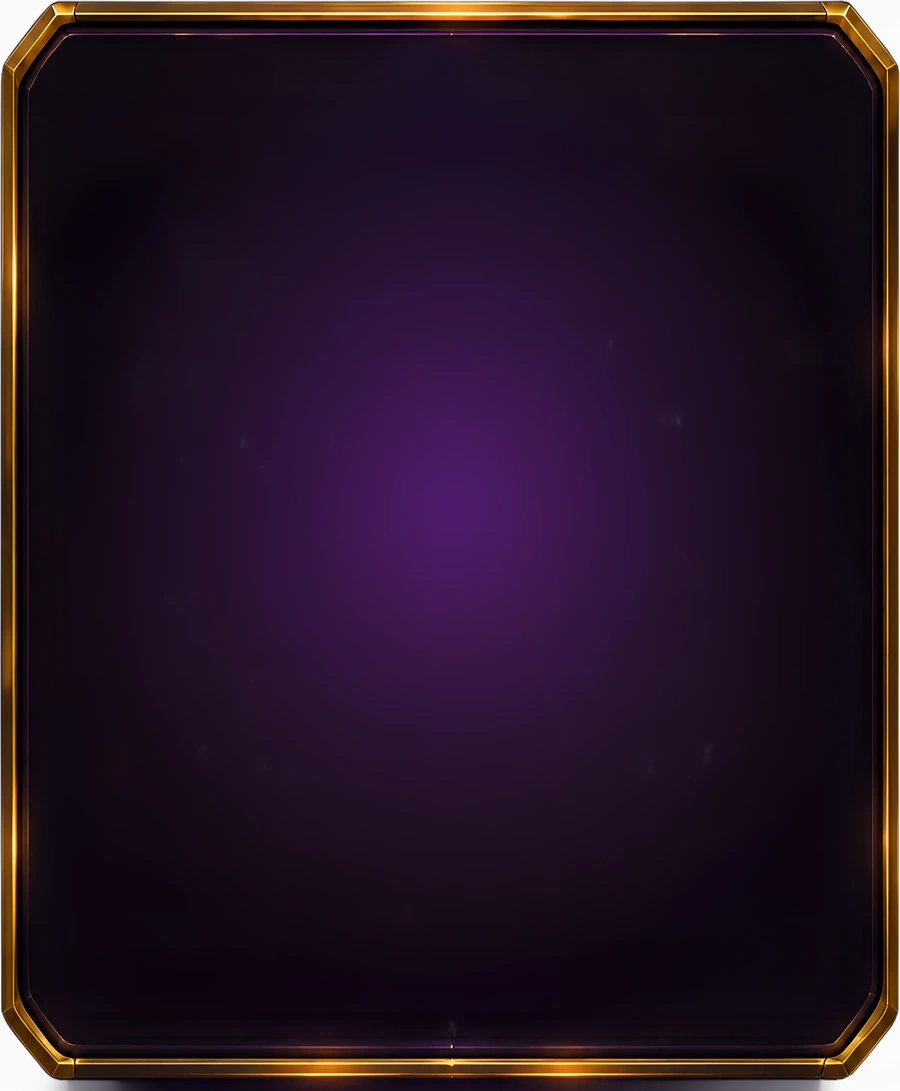
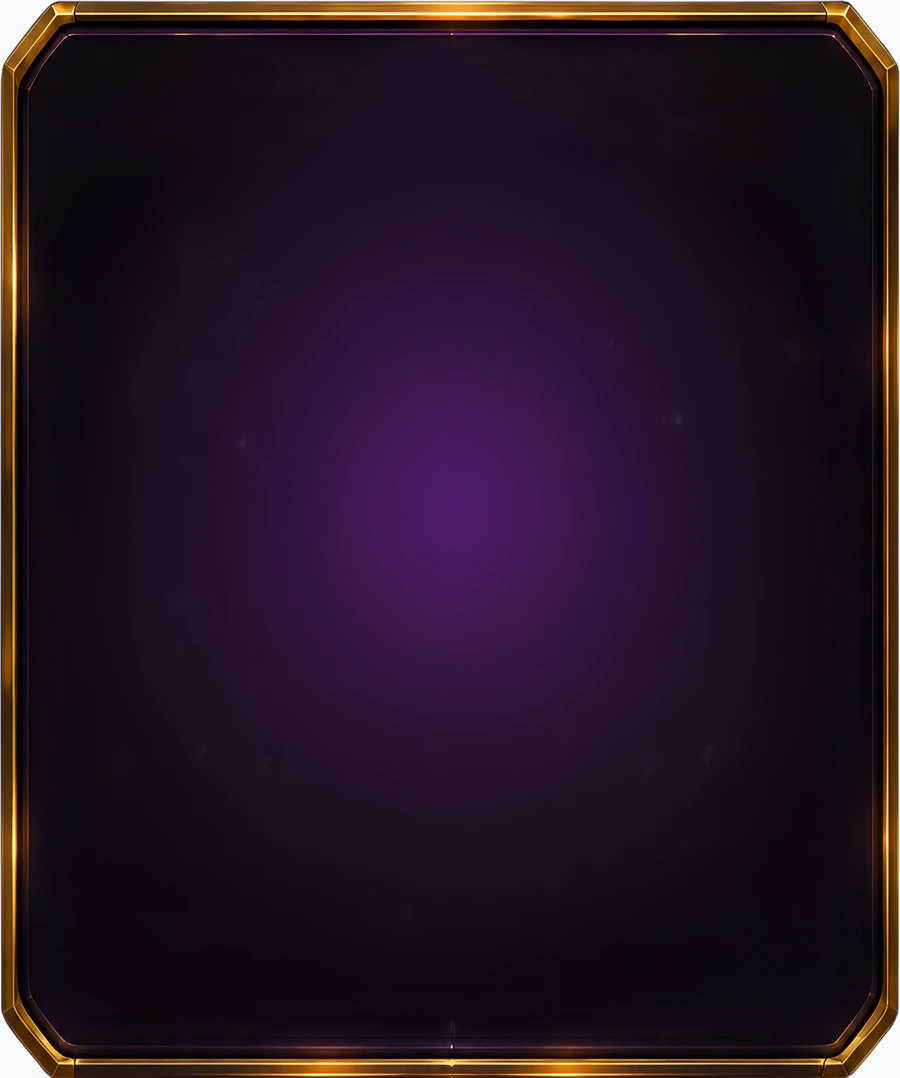
v2.67.1: Lettersoep bijgeschaafd
- Nieuwe ondersectie (hoger, dus de gevonden woorden hebben lucht).
- De zwarte slagschaduw onder de middensectie is eruit geknipt: van onderaf
  gezocht naar de laatste rij die nog goud bevat, alles daaronder was alleen
  schaduw (57 van de 4714 rijen). De letterlagen zijn mee ingekort, anders
  schuiven de letters ten opzichte van het bord.
- Een schaduw ONDER elke sectie, zodat ze op het decor zweven. Als tweede kopie
  van dezelfde art met brightness(0) en blur, niet als drop-shadow-filter: die
  rastert op iOS de doos van de laag mee en dan zie je zwarte hoekjes rond elke
  afschuining. Recht naar beneden, want het licht komt van boven.
- De gloed van een gekozen letter is korter (11 procent in plaats van 20, en
  minder blur). Hij waaierde verder dan de kier tussen twee vakjes, liep die vol
  en dan verdween de streep die het raster maakt.
- De vakjes van de gevonden woorden zijn nu ACHThoeken, met alle vier de hoeken
  afgesneden zoals de glasrijen. Twee afgeschuinde hoeken leest als een fout in
  plaats van als een vorm.
- VIND WOORDEN groter, en het decor een slag donkerder achter dit spel: de
  secties zijn zelf goud en licht, en op het volle decor concurreren die twee.

Changed region(s): [[0.0, 0.9184, 1.0, 1.0], [0.9333, 0.0306, 0.9956, 0.0612], [0.0, 0.0306, 0.0622, 0.0612]]

diff --git a/frontend/src/screens/_PreviewLettersoep.tsx b/frontend/src/screens/_PreviewLettersoep.tsx
@@ -14,6 +14,7 @@
 //  - het pad dat je legt, als lijn achter de letters;
 //  - de vakjes van de gevonden woorden, in de vorm van de glasrijen maar met
 //    een gouden lijn zoals op de mockup.
+import { useEffect } from "react";
 import { LogOut } from "lucide-react";
 import { Screen } from "../components/Layout";
 import { KADER_LIJN_LOOP, KADER_LIJN_ROOD, NeonKader } from "../components/ProfileHero";
@@ -21,27 +22,34 @@ import { VAK } from "./Arena";
 import { colors, font, withAlpha } from "../theme/tokens";
 
 // ---- de maten van de art ----------------------------------------------------
-const BORD_V = 0.8248;      // verhouding van de bordsectie
+const BORD_V = 0.8349;      // verhouding van de bordsectie
 const SCORE_V = 3.7805;     // van de scorebordsectie
-const ONDER_V = 4.4481;     // van de ondersectie
+const ONDER_V = 2.9589;     // van de ondersectie
 
 // De vier kolommen en rijen van het letterraster, als breuk van het bord.
 const KOL = [0.0561, 0.2803, 0.5051, 0.7297];
-const RIJ = [0.1616, 0.3547, 0.5431, 0.7361];
+const RIJ = [0.1636, 0.359, 0.5497, 0.7451];
 const VAK_B = 0.213;
-const VAK_H = 0.1769;
+const VAK_H = 0.1791;
 
 // De twee ruiten van het scorebord, links de tijd en rechts de punten.
 const SCORE_RUIT = { t: 0.2238, h: 0.6643, links: { l: 0.0407, b: 0.3213 }, rechts: { l: 0.637, b: 0.3213 } };
 // De ondersectie heeft twee banden met een streep ertussen: het woord dat je
 // legt boven, de woorden die je al hebt eronder.
-const ONDER_RUIT = { l: 0.0139, b: 0.9722, woord: { t: 0.1317, h: 0.4197 }, lijst: { t: 0.5638, h: 0.2798 } };
+const ONDER_RUIT = { l: 0.0148, b: 0.9704, woord: { t: 0.1315, h: 0.4192 }, lijst: { t: 0.5589, h: 0.2849 } };
 
 const pct = (f: number) => `${(f * 100).toFixed(3)}%`;
 
-// Hoeveel de gloed buiten een vakje uitwaaiert, als deel van dat vakje.
-const HALO = 0.2;
-const GLOED = withAlpha("#FFA524", 0.85);
+/** De vorm van de glasrijen: een achthoek, dus ALLE VIER de hoeken afgesneden.
+ *  Twee afgeschuinde hoeken leest als een fout in plaats van als een vorm. */
+const ACHT = (c: number) =>
+  `polygon(${c}px 0, calc(100% - ${c}px) 0, 100% ${c}px, 100% calc(100% - ${c}px), calc(100% - ${c}px) 100%, ${c}px 100%, 0 calc(100% - ${c}px), 0 ${c}px)`;
+
+// Hoeveel de gloed buiten een vakje uitwaaiert, als deel van dat vakje. Kort
+// houden: waaiert hij verder dan de kier tussen twee vakjes, dan loopt hij die
+// kier vol en verdwijnt de streep die het raster maakt.
+const HALO = 0.11;
+const GLOED = withAlpha("#FFA524", 0.7);
 
 // ---- de voorbeelddag --------------------------------------------------------
 const BORD = [
@@ -66,6 +74,22 @@ const GEVONDEN = [
 function Sectie({ art, verhouding, breedte = VAK, children }: { art: string; verhouding: number; breedte?: string; children?: React.ReactNode }) {
   return (
     <div style={{ position: "relative", width: breedte, height: `calc(${breedte} / ${verhouding})`, flexShrink: 0 }}>
+      {/* De schaduw waarop de sectie zweeft. Een TWEEDE kopie van dezelfde art,
+          helemaal zwart gemaakt en vervaagd, en niet `filter: drop-shadow`: die
+          rastert op iOS de doos van de laag mee en dan zie je zwarte hoekjes
+          rond elke afschuining. `brightness(0)` maakt elke pixel zwart en laat
+          het alfakanaal staan, dus de schaduw volgt de VORM. Recht naar beneden,
+          want het licht komt van boven. */}
+      <img
+        src={art}
+        alt=""
+        aria-hidden
+        style={{
+          position: "absolute", inset: 0, width: "100%", height: "100%", display: "block",
+          filter: "brightness(0) blur(11px)", opacity: 0.55, transform: "translateY(9px)",
+          pointerEvents: "none",
+        }}
+      />
       <img src={art} alt="" aria-hidden style={{ position: "absolute", inset: 0, width: "100%", height: "100%", display: "block" }} />
       {children}
     </div>
@@ -90,6 +114,13 @@ function Meter({ kop, waarde, breuk }: { kop: string; waarde: string; breuk: { l
 }
 
 export function PreviewLettersoep() {
+  // Het decor een slag donkerder: de secties van dit spel zijn zelf goud en
+  // licht, en op het volle decor concurreren die twee.
+  useEffect(() => {
+    document.body.classList.add("arena", "soepdonker");
+    return () => document.body.classList.remove("arena", "soepdonker");
+  }, []);
+
   const stand = GEVONDEN.reduce((t, g) => t + punten(g.n), 0);
   const woord = PAD.map(([r, k]) => BORD[r][k]).join("");
   const inPad = (r: number, k: number) => PAD.findIndex(([pr, pk]) => pr === r && pk === k);
@@ -119,8 +150,8 @@ export function PreviewLettersoep() {
               vrijhoudt. */}
           <span
             style={{
-              position: "absolute", left: 0, right: 0, top: pct(0.055),
-              textAlign: "center", fontFamily: font.wide, fontSize: 13, letterSpacing: 2.4,
+              position: "absolute", left: 0, right: 0, top: pct(0.048),
+              textAlign: "center", fontFamily: font.wide, fontSize: 17, letterSpacing: 3,
               color: "#FFD98A", textShadow: "0 0 10px rgba(255,180,50,.55)",
             }}
           >
@@ -167,8 +198,8 @@ export function PreviewLettersoep() {
                     left: pct(KOL[k] - VAK_B * HALO), top: pct(RIJ[r] - VAK_H * HALO),
                     width: pct(VAK_B * (1 + HALO * 2)), height: pct(VAK_H * (1 + HALO * 2)),
                     borderRadius: "28%",
-                    background: `radial-gradient(circle, ${GLOED} 0%, ${GLOED} 44%, ${withAlpha("#FFB43C", 0.5)} 56%, ${withAlpha("#FFB43C", 0.2)} 66%, transparent 74%)`,
-                    filter: "blur(9px)",
+                    background: `radial-gradient(circle, ${GLOED} 0%, ${GLOED} 46%, ${withAlpha("#FFB43C", 0.38)} 58%, ${withAlpha("#FFB43C", 0.14)} 68%, transparent 76%)`,
+                    filter: "blur(6px)",
                     opacity: aan ? 1 : 0,
                     transition: aan ? "opacity .1s linear" : "opacity .25s ease-out",
                     pointerEvents: "none",
@@ -191,7 +222,7 @@ export function PreviewLettersoep() {
                   aria-hidden
                   style={{
                     position: "absolute",
-                    left: pct(KOL[k] - 0.0015), top: pct(RIJ[r] + 0.0008),
+                    left: pct(KOL[k] - 0.0015), top: pct(RIJ[r] + 0.0015),
                     width: pct(VAK_B + 0.003), height: "auto",
                     display: "block", zIndex: 2,
                     opacity: aan ? 1 : 0,
@@ -277,14 +308,14 @@ export function PreviewLettersoep() {
                 key={g.woord}
                 style={{
                   display: "inline-flex", height: "84%", padding: 1,
-                  clipPath: "polygon(6px 0, 100% 0, 100% calc(100% - 6px), calc(100% - 6px) 100%, 0 100%, 0 6px)",
+                  clipPath: ACHT(6),
                   background: `linear-gradient(180deg, ${withAlpha("#FFD98A", 0.85)}, ${withAlpha("#B0710E", 0.7)})`,
                 }}
               >
                 <span
                   style={{
                     display: "inline-flex", alignItems: "center", gap: 5, paddingInline: 9,
-                    clipPath: "polygon(5px 0, 100% 0, 100% calc(100% - 5px), calc(100% - 5px) 100%, 0 100%, 0 5px)",
+                    clipPath: ACHT(5),
                     background: "linear-gradient(180deg, rgba(58,26,86,.97), rgba(32,13,52,.97))",
                     fontFamily: font.ui, fontSize: 11, fontWeight: 600, color: withAlpha("#FFE7A8", 0.92),
                   }}

diff --git a/frontend/src/index.css b/frontend/src/index.css
@@ -717,6 +717,14 @@ a:active .hex-aan {
   .wp-art::after { animation: none; opacity: 0; }
 }
 
+/* De arena-hal een slag donkerder voor de Lettersoep. De secties van dat spel
+   zijn zelf al goud en licht; op het volle decor concurreren die twee en dan
+   leest het bord niet meer als het ding waar je naar kijkt. Een extra donkere
+   laag OVER het decor, en niet een tweede decor: zo blijft het dezelfde plek. */
+body.soepdonker::before {
+  filter: brightness(0.62) saturate(0.9);
+}
+
 /* De klop van de LED-stand in de Flitsreeks: bij elke score-verhoging komt het
    cijfer even naar voren en licht het op. Kort en zonder verplaatsing, want een
    uitlezing die springt leest als een storing; dit is een tel die TIKT. De

diff --git a/frontend/src/version.ts b/frontend/src/version.ts
@@ -1,2 +1,2 @@
 // Bump per user-facing release. Shown in Settings > About.
-export const APP_VERSION = "2.67.0";
+export const APP_VERSION = "2.67.1";
